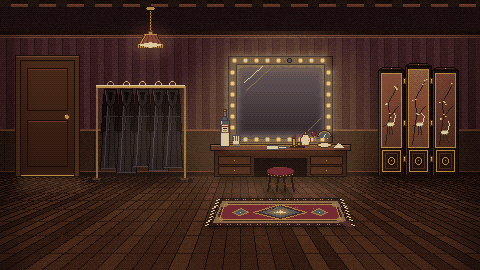
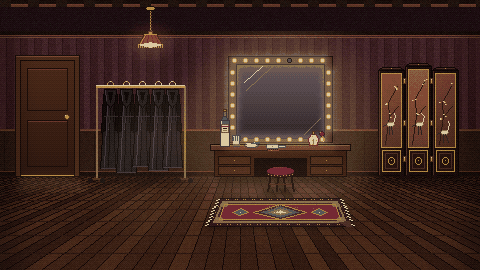
Dressing room: take Eleanor's compact and lipstick from the table, not the mirror
Split the dressing table into gin and powder, lipstick, compact, perfume and hairbrush
hotspots; repaint the items with more detail and add overlays so the compact and lipstick
vanish when taken.

Changed region(s): [[0.5, 0.4741, 0.7188, 0.563]]

diff --git a/tools/art/club.py b/tools/art/club.py
@@ -1159,8 +1159,17 @@ def costume_rail(img):
     noise(img, (x0, y0, x1, FLOOR), 3, 3521)
 
 
-def dressing_table(img):
-    """The dressing table: a mirror ringed by bulbs, gin bottle and glass, a powder compact, sticks of greasepaint."""
+LIPSTICK_X = 292  # Eleanor's lipstick on the dressing table, left edge
+COMPACT_X = 334  # her open compact, centre
+# overlay crops of the two things she takes, in scene coordinates; the background is painted without them
+BACKSTAGE_LIPSTICK_BOX = (LIPSTICK_X - 2, 114 - 16 + TOP, LIPSTICK_X + 15, 114 + 4 + TOP)
+BACKSTAGE_COMPACT_BOX = (COMPACT_X - 9, 114 - 17 + TOP, COMPACT_X + 10, 114 + 5 + TOP)
+
+
+def dressing_table(img, compact=True, lipstick=True):
+    """The dressing table: a mirror ringed by bulbs; the old man's gin, glass and saucer of powder; a hairbrush and
+    comb, Eleanor's lipstick, a perfume atomiser and her open compact. The lipstick and compact can be left off,
+    for the background she takes them from."""
     d = ImageDraw.Draw(img)
     x0, x1 = BACKSTAGE_TABLE
     mx0, mx1, my0, my1 = BACKSTAGE_MIRROR
@@ -1223,45 +1232,67 @@ def dressing_table(img):
     d.rectangle([tx + 1, top - 3, tx + 6, top - 1], fill=hx("b8d4cc"))
     d.rectangle([tx + 1, top, tx + 7, top + 1], fill=hx("6a8088"))
     d.point((tx + 1, top - 8), fill=hx("ffffff"))
-    # a silver-backed hairbrush lying bristles down, a tortoiseshell comb beside it
-    bx = x0 + 52
-    d.rounded_rectangle([bx, top + 1, bx + 12, top + 5], 2, fill=hx("b8b8c0"), outline=hx("4a4a54"))
-    d.line([(bx + 2, top + 2), (bx + 9, top + 2)], fill=hx("f0f0f4"))
-    d.rectangle([bx + 12, top + 2, bx + 20, top + 4], fill=hx("a8a8b0"), outline=hx("4a4a54"))
+    # the old man's saucer: silver, a line of powder cut on it, a razor blade laid across the rim
+    sx = tx + 12
+    d.ellipse([sx, top - 1, sx + 14, top + 3], fill=hx("9a9aa4"), outline=hx("44444e"))
+    d.ellipse([sx + 2, top, sx + 12, top + 2], fill=hx("c8c8d0"))
+    d.line([(sx + 2, top - 1), (sx + 6, top - 1)], fill=hx("f0f0f4"))
+    d.line([(sx + 3, top + 1), (sx + 9, top + 1)], fill=hx("fcfaf6"))
+    d.point((sx + 10, top + 1), fill=hx("e8e4de"))
+    d.rectangle([sx + 9, top - 2, sx + 15, top - 1], fill=hx("d8dce4"), outline=hx("5a5e68"))
+    d.point((sx + 10, top - 2), fill=hx("ffffff"))
+    # a silver-backed hairbrush lying bristles down, a tortoiseshell comb tucked in front of it
+    bx = sx + 22
+    d.rounded_rectangle([bx, top, bx + 12, top + 4], 2, fill=hx("b8b8c0"), outline=hx("4a4a54"))
+    d.line([(bx + 2, top + 1), (bx + 9, top + 1)], fill=hx("f0f0f4"))
+    d.point((bx + 6, top + 2), fill=hx("80808c"))
+    d.rectangle([bx + 12, top + 1, bx + 19, top + 3], fill=hx("a8a8b0"), outline=hx("4a4a54"))
     for k in range(bx + 1, bx + 12, 2):
-        d.point((k, top + 6), fill=hx("2a1a14"))
-    cbx = bx + 24
-    d.rectangle([cbx, top + 2, cbx + 14, top + 3], fill=hx("8a4a1a"), outline=hx("3a1a0a"))
-    for k in range(cbx + 1, cbx + 14, 2):
-        d.line([(k, top + 4), (k, top + 5)], fill=hx("6a3410"))
-    d.point((cbx + 4, top + 2), fill=hx("c8843a"))
-    # a lipstick, its cap off: a brass tube and a red bullet
-    lx = x1 - 54
-    d.rectangle([lx, top - 6, lx + 3, top + 1], fill=hx("c8a040"), outline=hx("4a3412"))
-    d.polygon([(lx, top - 7), (lx + 3, top - 10), (lx + 3, top - 7)], fill=hx("c8203a"), outline=hx("6a0e1a"))
-    d.rectangle([lx + 5, top - 2, lx + 8, top + 1], fill=hx("c8a040"), outline=hx("4a3412"))
+        d.point((k, top + 5), fill=hx("2a1a14"))
+    d.line([(bx + 2, top + 6), (bx + 12, top + 6)], fill=hx("8a4a1a"))
+    d.point((bx + 5, top + 6), fill=hx("c8843a"))
+    if lipstick:
+        # her lipstick, standing uncapped: a fluted gold case, the red bullet worn to a slant, the cap lying by it
+        lx = LIPSTICK_X
+        d.rectangle([lx, top - 8, lx + 4, top + 1], fill=hx("c8a040"), outline=hx("4a3412"))
+        d.line([(lx + 1, top - 7), (lx + 1, top)], fill=hx("f8e090"))
+        d.line([(lx + 3, top - 7), (lx + 3, top)], fill=hx("a07a28"))
+        d.line([(lx + 1, top - 4), (lx + 3, top - 4)], fill=hx("6a4a18"))
+        d.rectangle([lx + 1, top - 10, lx + 3, top - 8], fill=hx("e0c060"), outline=hx("6a4a18"))
+        d.polygon([(lx + 1, top - 11), (lx + 3, top - 14), (lx + 3, top - 11)], fill=hx("d02040"),
+                  outline=hx("6a0e1a"))
+        d.point((lx + 2, top - 12), fill=hx("ff6a80"))
+        d.rectangle([lx + 6, top - 2, lx + 12, top + 1], fill=hx("c8a040"), outline=hx("4a3412"))
+        d.line([(lx + 7, top - 1), (lx + 11, top - 1)], fill=hx("f8e090"))
+        d.line([(lx + 12, top - 1), (lx + 12, top)], fill=hx("6a4a18"))
     # a perfume atomiser: a faceted rose bottle, a gilt neck, a tasselled rubber bulb on its tube
-    ax = x1 - 46
+    ax = LIPSTICK_X + 16
     d.polygon([(ax, top - 6), (ax + 3, top - 10), (ax + 7, top - 10), (ax + 10, top - 6), (ax + 9, top + 1),
                (ax + 1, top + 1)], fill=hx("d8909c"), outline=hx("6a3040"))
     d.line([(ax + 3, top - 8), (ax + 2, top - 1)], fill=hx("f4d0d8"))
+    d.line([(ax + 5, top - 5), (ax + 5, top)], fill=hx("b06878"))
     d.rectangle([ax + 4, top - 13, ax + 6, top - 10], fill=hx("d8b050"), outline=hx("4a3412"))
     d.line([(ax + 6, top - 12), (ax + 9, top - 14), (ax + 12, top - 12)], fill=hx("4a2a2a"))
     d.ellipse([ax + 11, top - 13, ax + 16, top - 8], fill=hx("a01e2e"), outline=hx("4a0e14"))
     d.point((ax + 12, top - 12), fill=hx("e85a6a"))
     d.line([(ax + 14, top - 8), (ax + 15, top - 4)], fill=hx("d8b050"))
-    # the powder compact: open, its mirror lid propped up, the pan of powder, a little white heap tipped out
-    cx = x1 - 22
-    d.ellipse([cx - 7, top - 2, cx + 7, top + 3], fill=hx("c8a050"), outline=hx("4a3412"))
-    d.ellipse([cx - 5, top - 1, cx + 5, top + 2], fill=hx("f0e0d0"))
-    d.chord([cx - 7, top - 14, cx + 7, top - 1], 180, 360, fill=hx("a87a28"), outline=hx("3a2408"))
-    d.chord([cx - 5, top - 12, cx + 5, top - 2], 180, 360, fill=hx("4a5668"))
-    d.line([(cx - 3, top - 4), (cx + 1, top - 10)], fill=hx("e8f0f8"))
-    d.point((cx + 3, top - 6), fill=hx("c8d0dc"))
-    hx0 = cx + 10
-    d.polygon([(hx0, top + 3), (hx0 + 3, top), (hx0 + 4, top - 1), (hx0 + 6, top), (hx0 + 9, top + 3)],
-              fill=hx("f4f2ee"), outline=hx("b8b4b0"))
-    d.point((hx0 + 4, top), fill=hx("ffffff"))
+    d.point((ax + 15, top - 3), fill=hx("f0d070"))
+    if compact:
+        # her compact: open, a gold case with an engraved rim, the lid's little mirror propped up, a pan of face
+        # powder with no puff in it
+        cx = COMPACT_X
+        d.ellipse([cx - 7, top - 2, cx + 7, top + 3], fill=hx("c8a050"), outline=hx("4a3412"))
+        d.ellipse([cx - 5, top - 1, cx + 5, top + 2], fill=hx("f0dcc8"))
+        d.arc([cx - 4, top - 1, cx + 4, top + 2], 200, 340, fill=hx("d8bca4"))
+        d.point((cx - 6, top + 1), fill=hx("f8e090"))
+        d.point((cx + 6, top + 1), fill=hx("8a6a28"))
+        d.chord([cx - 7, top - 15, cx + 7, top - 1], 180, 360, fill=hx("a87a28"), outline=hx("3a2408"))
+        d.chord([cx - 5, top - 13, cx + 5, top - 2], 180, 360, fill=hx("4a5668"))
+        for ex in range(cx - 6, cx + 7, 3):
+            d.point((ex, top - 2 - round(12 * (1 - ((ex - cx) / 7) ** 2) ** 0.5)), fill=hx("e8c870"))
+        d.line([(cx - 3, top - 4), (cx + 1, top - 10)], fill=hx("e8f0f8"))
+        d.point((cx + 3, top - 6), fill=hx("c8d0dc"))
+        d.point((cx - 1, top - 3), fill=hx("f8d0c0"))
     noise(img, (x0 - 4, top, x1 + 4, FLOOR), 3, 3530)
 
 
@@ -1392,13 +1423,13 @@ def backstage_rug(img):
 BACKSTAGE_DOOR_BOX = (BACKSTAGE_DOOR[0] - 10, 22 + TOP, BACKSTAGE_DOOR[1] + 22, FLOOR + 20 + TOP)
 
 
-def backstage_scene(door="shut"):
+def backstage_scene(door="shut", makeup=True):
     img = Image.new("RGB", (W, H))
     backstage_wall(img)
     backstage_door(img, door)
     costume_rail(img)
     dressing_screen(img)
-    dressing_table(img)
+    dressing_table(img, compact=makeup, lipstick=makeup)
     backstage_stool(img)
     backstage_rug(img)
     shadow(img, "rect", [0, 0, 18, H - 1], 0.3, 10, hx("20090c"))
@@ -1415,16 +1446,22 @@ def build():
     lounge = lounge_scene()
     stage = stage_scene()
     backstage = backstage_scene()
+    # one palette for the dressing room and its overlays, taken with the makeup on the table
+    pal = palette_of(backstage, 128)
     out = {
         "club_hall.png": pixelize(hall, n=128),
         "club_lounge.png": pixelize(lounge, n=128),
         "club_stage.png": pixelize(stage, n=128),
-        "club_backstage.png": pixelize(backstage, n=128),
+        "club_backstage.png": pixelize(backstage_scene(makeup=False), pal),
     }
     for name, img in out.items():
         save(img, "rooms", name)
+    # Eleanor's lipstick and compact, each vanishing from the table when she takes it
+    full = pixelize(backstage, pal)
+    for name, box in (("lipstick", BACKSTAGE_LIPSTICK_BOX), ("compact", BACKSTAGE_COMPACT_BOX)):
+        save(full.crop(box), "rooms", f"club_backstage_{name}.png")
+        print(f"club_backstage_{name}.png at {box[:2]}")
     # the stage door opening for the old man in the Second Interlude, on the room's own palette
-    pal = palette_of(backstage, 128)
     for state in ("ajar", "open"):
         save(pixelize(backstage_scene(state), pal).crop(BACKSTAGE_DOOR_BOX), "rooms", f"club_backstage_door_{state}.png")
     return out["club_hall.png"]

diff --git a/scripts/Rooms/ClubBackstage.cs b/scripts/Rooms/ClubBackstage.cs
@@ -6,7 +6,8 @@ namespace Repentance.Rooms;
 /// <summary>
 /// The Club's dressing room, behind the stage (Second Interlude). Eleanor, in a short pink gown, alone at a mirror
 /// ringed with bulbs, with a glass of gin and a line of powder waiting "as always". She has to put the face on
-/// (Puzzle 18): face powder and a puff, then the lipstick, then a pin for the curl, each one a step back into the
+/// (Puzzle 18): her compact and lipstick from the dressing table, face powder and a puff, then the lipstick, then a pin
+/// for the curl, each one a step back into the
 /// life she wants to leave. When it's on, the stage door opens and the old man, unmasked, walks in. Taking his gin
 /// plays her drink strip; refusing is saved ("eleanor_refused_drugs") and the scene cuts to black on "Noooo!". Either
 /// way the journal goes back to Micah on the Club stage.
@@ -26,6 +27,10 @@ public partial class ClubBackstage : Room
         // the door is only ever open while he comes through it
         State.SetFlag("backstage_door_ajar", false);
         State.SetFlag("backstage_door_open", false);
+        // saves from before the compact and lipstick lay on the table: whatever she holds or has used is off it
+        if (State.HasItem("compact") || State.HasItem("puff_powdered") || State.HasFlag("interlude_powdered"))
+            State.SetFlag("interlude_took_compact");
+        if (State.HasItem("lipstick") || State.HasFlag("interlude_lips")) State.SetFlag("interlude_took_lipstick");
         base._Ready();
     }
 
@@ -87,7 +92,36 @@ public partial class ClubBackstage : Room
                 await Say("Not for him. Nothing of mine is for him. Not anymore.");
                 return true;
             case ("table", Verb.Look):
-                await Say("A glass of gin, already poured. A silver saucer beside it. He's thought of everything, as always.");
+                await Say("A glass of gin, already poured. A silver saucer beside it, the powder cut in a line, the razor laid across. He's thought of everything, as always.");
+                return true;
+            case ("compact", Verb.Look):
+                await Say("My compact, open on its little mirror. Gold, like the cage. He bought me that too.");
+                return true;
+            case ("compact", Verb.Hand):
+                State.SetFlag("interlude_took_compact");
+                State.GiveItem("compact");
+                await Say("The puff's gone from it. Somebody borrowed it. Nobody gives anything back here.");
+                await Think("She held it the way you hold the key to a house you're afraid to go home to.");
+                return true;
+            case ("lipstick", Verb.Look):
+                await Say("My lipstick, the cap off, waiting. Red, the only colour he lets me wear.");
+                return true;
+            case ("lipstick", Verb.Hand):
+                State.SetFlag("interlude_took_lipstick");
+                State.GiveItem("lipstick");
+                await Say("Gold case, red mouth. Another of his presents.");
+                return true;
+            case ("perfume", Verb.Look):
+                await Say("Rose water in cut glass. It never covers the smoke, or the smell of him.");
+                return true;
+            case ("perfume", Verb.Hand):
+                await Say("No. He likes me to smell of roses. Tonight I won't give him even that.");
+                return true;
+            case ("hairbrush", Verb.Look):
+                await Say("A silver hairbrush and a comb. Somebody else's. Everything here is somebody else's.");
+                return true;
+            case ("hairbrush", Verb.Hand):
+                await Say("My hair's done. They did it before they left me here. All it wants is a pin.");
                 return true;
             case ("rack", Verb.Look):
                 await Say("Black silk, dozens of gowns, for the members' wives. I used to think a dress like that would keep me safe.");
@@ -133,7 +167,7 @@ public partial class ClubBackstage : Room
     private const string Order = "Face powder first. Then the mouth. Then the hair. The face they paid for, one piece at a time.";
 
     /// <summary>
-    /// Puzzle 18: the makeup comes off the ledge, then goes on in order. Every step is a choice she half makes: she
+    /// Puzzle 18: the makeup comes off the ledge (the compact and lipstick hotspots), then goes on in order. Every step is a choice she half makes: she
     /// wants out, and she paints herself back in.
     /// </summary>
     private async Task Mirror(Verb verb, string? item)
@@ -153,17 +187,9 @@ public partial class ClubBackstage : Room
         }
         if (verb == Verb.Hand)
         {
-            if (State.HasFlag("interlude_took_makeup"))
-            {
-                await Say(Order);
-                return;
-            }
-            State.SetFlag("interlude_took_makeup");
-            State.GiveItem("compact");
-            State.GiveItem("lipstick");
-            await Say("My compact and my lipstick. Gold cases, both of them. He bought me both.");
-            await Think("She held them the way you hold the key to a house you're afraid to go home to.");
-            await Say("The puff's gone from the compact. Somebody borrowed it. Nobody gives anything back here.");
+            await Say(State.HasFlag("interlude_took_compact") && State.HasFlag("interlude_took_lipstick")
+                ? Order
+                : "The glass won't put my face on for me. What I need is on the ledge, under the bulbs.");
             return;
         }
 

diff --git a/scripts/Debug/AutoPlay/AutoPlay.Act3.cs b/scripts/Debug/AutoPlay/AutoPlay.Act3.cs
@@ -82,7 +82,16 @@ public partial class AutoPlay
         await game.Perform(Verb.Hand, "table");
         Check(game.Room?.Name == "ClubBackstage" && gs.Inventory.Count == 0, "the gin table waits too, and gives nothing");
         await game.Perform(Verb.Hand, "mirror");
-        Check(gs.HasItem("compact") && gs.HasItem("lipstick"), "her compact and lipstick from the ledge");
+        Check(gs.Inventory.Count == 0, "the mirror gives nothing: the makeup is on the table");
+        Check(game.Room?.GetNodeOrNull<Sprite2D>("Compact")?.Visible == true && game.Room?.GetNodeOrNull<Sprite2D>("Lipstick")?.Visible == true,
+            "her compact and lipstick lie on the dressing table");
+        await game.Perform(Verb.Hand, "compact");
+        Check(gs.HasItem("compact") && game.Room?.GetNodeOrNull<Sprite2D>("Compact")?.Visible == false
+            && game.Room?.FindHotspot("compact")?.Visible == false && game.Room?.GetNodeOrNull<Sprite2D>("Lipstick")?.Visible == true,
+            "the compact leaves the table, the lipstick stays");
+        await game.Perform(Verb.Hand, "lipstick");
+        Check(gs.HasItem("lipstick") && game.Room?.GetNodeOrNull<Sprite2D>("Lipstick")?.Visible == false
+            && game.Room?.FindHotspot("lipstick")?.Visible == false, "the lipstick leaves the table");
         await game.Perform(Verb.UseItem, "mirror", "lipstick");
         Check(gs.HasItem("lipstick") && !gs.HasFlag("interlude_lips"), "no lipstick on a bare face");
         await game.Perform(Verb.UseItem, "mirror", "compact");
@@ -95,7 +104,7 @@ public partial class AutoPlay
         await game.Perform(Verb.Hand, "mirror");
         await game.Perform(Verb.Hand, "rack");
         await game.Perform(Verb.Hand, "screens");
-        Check(gs.Inventory.Count == 4, "the ledge, the rail and the screen give nothing twice");
+        Check(gs.Inventory.Count == 4, "the mirror, the rail and the screen give nothing twice");
         await CombineAndWait("puff", "compact");
         Check(gs.HasItem("puff_powdered") && !gs.HasItem("puff") && !gs.HasItem("compact"), "the puff in the face powder");
         await game.Perform(Verb.UseItem, "mirror", "hairpin");

diff --git a/scripts/Debug/Playthrough/Playthrough.Act3.cs b/scripts/Debug/Playthrough/Playthrough.Act3.cs
@@ -33,8 +33,9 @@ public sealed partial class Playthrough
             Expect("ClubBackstage", "the Order's men take her to the Club's dressing room");
             Check(_game.Player.Character == "eleanor_gown_play", "Eleanor in the pink gown");
             // Puzzle 18: the face they paid for, before the old man will talk
-            await Do(Verb.Hand, "mirror");
-            Check(Gs.HasItem("compact") && Gs.HasItem("lipstick"), "her compact and lipstick from the ledge");
+            await Do(Verb.Hand, "compact");
+            await Do(Verb.Hand, "lipstick");
+            Check(Gs.HasItem("compact") && Gs.HasItem("lipstick"), "her compact and lipstick from the dressing table");
             await Do(Verb.Look, "rack");
             await Do(Verb.Hand, "rack");
             await Do(Verb.Hand, "screens");

diff --git a/scripts/Story/Interlude.cs b/scripts/Story/Interlude.cs
@@ -32,7 +32,8 @@ public static class Interlude
     };
     private static readonly string[] SecondBeats =
     {
-        "interlude_goons_in", "interlude_took_makeup", "interlude_took_puff", "interlude_took_pin",
+        "interlude_goons_in", "interlude_took_compact", "interlude_took_lipstick",
+        "interlude_took_puff", "interlude_took_pin",
         "interlude_powdered", "interlude_lips", "interlude_made_up", "interlude_door_kicked",
         "backstage_door_ajar", "backstage_door_open",
     };

diff --git a/Walkthrough.md b/Walkthrough.md
@@ -779,7 +779,8 @@ satchel for what she finds there, no **N**, Micah's things stashed until the int
 - **Puzzle 18 - The face they paid for:** the doll's face Micah sees on stage, put on by hand. Every step is a beat
   of her conflict, and it is sad: the silk, the money and the safety she has against the rot under them and the
   wish to run, with the old man's gentle, possessive pressure to stay.
-  - Hand on the mirror: her compact of face powder (no puff) and a lipstick.
+  - Hand on the compact and the lipstick on the dressing table: her compact of face powder (no puff) and her
+    lipstick, each gone from the table once taken. The perfume and the hairbrush beside them are only looked at.
   - Hand on the costume rail: a swansdown puff in a member's wife's gown pocket.
   - Hand on the painted screens: a hairpin clipped to the silk.
   - Join the puff and the compact, then use them on the mirror, in order: the face powder, the lipstick, the
